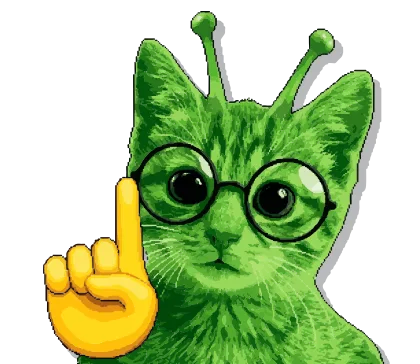
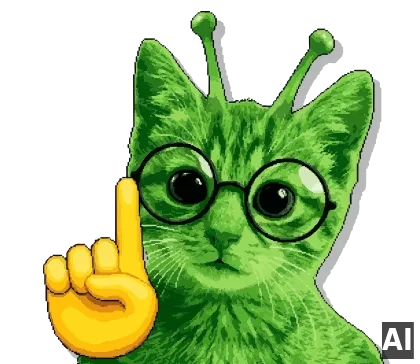
chore: Mark and disclose SI-generated art
- Burn a visible AI watermark into Nib's portrait and all 12 artifact
  sprites, and add an always-visible AI badge on the small portrait.
- Disclose SI use (images, code, narration) in the README and About panel.
- Record the exact Scott Buckley CC BY 4.0 submission attribution and
  update the PLAN risks and decision log.

Changed region(s): [[0.8976, 0.8764, 0.9905, 0.9973]]

diff --git a/src/about/AboutPanel.jsx b/src/about/AboutPanel.jsx
@@ -57,7 +57,9 @@ export default function AboutPanel({
         <li>Moon basemap: NASA Scientific Visualization Studio, CGI Moon Kit (LROC colour).</li>
         <li>Mars basemap: USGS Astrogeology, MOLA colour hillshade.</li>
         <li>Both basemaps are public domain.</li>
-        <li>Art credits will be added alongside those assets.</li>
+        <li>Art: Nib’s portrait and the artifact sprites are SI-generated; the Last Transmission logo and favicon were made for this project.</li>
+        <li>SI disclosure: displayed SI images carry a visible “AI” mark; code, tests, and documentation were developed with Claude Code.</li>
+        <li>Narration and fact-check copy was drafted with SI assistance and checked against the linked NASA sources.</li>
         <li>
           All background music tracks are composed by{' '}
           <strong>Scott Buckley</strong> (

diff --git a/src/styles.css b/src/styles.css
@@ -439,6 +439,7 @@ button:focus-visible {
 }
 
 .narrator-portrait-button {
+    position: relative;
     flex: none;
     display: grid;
     place-items: center;
@@ -449,6 +450,23 @@ button:focus-visible {
     transition:
         border-color 120ms ease-out,
         transform 120ms ease-out;
+}
+
+/* Visible SI mark: the source art is AI-generated and must stay marked. */
+.si-mark {
+    position: absolute;
+    right: 2px;
+    bottom: 2px;
+    padding: 1px 3px;
+    border-radius: 2px;
+    background: rgb(0 0 0 / 0.78);
+    color: #fff;
+    font-family: system-ui, sans-serif;
+    font-size: 0.5rem;
+    font-weight: 700;
+    line-height: 1.2;
+    letter-spacing: 0.04em;
+    pointer-events: none;
 }
 
 .narrator-portrait-button:hover {

diff --git a/src/story/StoryPanel.jsx b/src/story/StoryPanel.jsx
@@ -64,6 +64,9 @@ function Narrator({ artifact }) {
             src={asset('narrator/cat.webp')}
             alt=""
           />
+          <span className="si-mark" aria-hidden="true">
+            AI
+          </span>
         </button>
         <div>
           <p className="narrator-name">Nib</p>

diff --git a/README.md b/README.md
@@ -24,6 +24,17 @@ Twelve artifacts left behind by NASA missions, presented as one guided tour in t
 
 Designed for ages 9–13 and casual space fans.
 
+## Super Intelligence (SI) use
+
+SI tools were used to build this project, and the visible indicators are in the app.
+
+- **Images:** Nib’s portrait and the twelve artifact sprites are SI-generated. Every displayed SI image carries a visible “AI” watermark, and Nib’s portrait has an additional in-app AI badge. Nib’s source SVG retains its C2PA provenance (Google Generative AI). The SI-generated images contain no NASA logos, flags, or mission insignia.
+- **Code and tests:** developed with [Claude Code](https://claude.com/claude-code) (Anthropic) and reviewed by the team. Recent commits carry a `Co-Authored-By: Claude Code` trailer.
+- **Narration and fact-check copy:** drafted with SI assistance and checked against the NASA sources linked in each story.
+- **Audio:** no SI-generated audio. Music is by Scott Buckley; sound effects are by Hove Audio.
+
+The same disclosure appears in the in-app About panel and the submission form.
+
 ## How it maps to the challenge
 
 | Challenge asks                                                         | Where it shows up                                                                                                                                                                                                          |
@@ -108,12 +119,14 @@ Not covered:
 - Moon basemap: NASA Scientific Visualization Studio, CGI Moon Kit (LROC colour).
 - Mars basemap: USGS Astrogeology, MOLA colour hillshade.
 - Both basemaps are public domain.
-- Art credits will be added alongside those assets.
+- Art: Nib’s portrait and the artifact sprites are SI-generated (see [SI use](#super-intelligence-si-use)); the Last Transmission logo and favicon were made for this project.
 - All background music tracks are composed by **Scott Buckley** ([www.scottbuckley.com.au](https://www.scottbuckley.com.au)) and licensed under [Creative Commons Attribution 4.0 International (CC BY 4.0)](https://creativecommons.org/licenses/by/4.0/):
 - All sound effects are from **Hove Audio** ([https://hoveaudio.itch.io/](https://hoveaudio.itch.io/)).
 
 * **"At The End Of All Things"** – Intro & Outro theme
 * **"Clear Skies"** – Story introduction theme
 * **"With These Hands"** – Act III transition theme
+
+Submission attribution: “At The End Of All Things”, “Clear Skies”, and “With These Hands” by Scott Buckley — released under CC-BY 4.0. www.scottbuckley.com.au
 
 Design decisions, roster, and open questions live in [PLAN.md](PLAN.md).

diff --git a/PLAN.md b/PLAN.md
@@ -208,10 +208,11 @@ Never cut: content accuracy, the deployed URL, the 30-second video.
 
 ## 12. Risks and open questions
 
-- **AI-generated assets** — confirm the event's rules on generative content before
-  relying on any AI-made sprite.
-- **Scott Buckley audio licence** — confirm the exact licence and required credit
-  string; a missing CC-BY credit is a judging risk.
+- **AI-generated assets** — confirmed: SI use is permitted, but generated images need
+  a visible watermark and code/data need disclosure. Nib's portrait and the artifact
+  sprites carry an “AI” mark; README and About disclose the tools.
+- **Scott Buckley audio licence** — confirmed CC BY 4.0. Credit appears in README, the
+  About panel, and the submission description with the required attribution string.
 - **Content is the bottleneck.** Twelve researched entries in 48 hours cannot be
   compressed at the end.
 - **Late audio** — never build the demo video around audio that has not landed.
@@ -230,3 +231,4 @@ Never cut: content accuracy, the deployed URL, the 30-second video.
 | 2026-11-15 | Added a Playwright smoke suite to CI (system Chrome, no browser download). It automates the §9 five-step list and checks that favicon, logo, and artifact icons are served. Narrows the “no test suite” non-goal. |
 | 2026-11-15 | Added Nib, a Martian cat narrator, to every tour stop: a first-person story plus a “Was that all true?” fact-check drawn from `Narrator corrections.md`, with new stories for Viking 1, Ingenuity, NEAR Shoemaker and Dawn, and an Apollo 17 rewrite of the ALSEP entry. The cat portrait ships as a 420 px WebP; the original SVG stays in `assets-src/`. |
 | 2026-11-15 | Nib's story became a click-to-open popup: hidden until Nib or “Tell me a story” is clicked, told one beat at a time, with the fact-check inside the popup after the last beat. On desktop it floats above the portrait (the panel leaves only ~75 px below her); on phones it flows inside the bottom sheet. The old “Was that all true?” `<details>` was removed. |
+| 2026-11-15 | SI compliance: Nib's portrait is SI-generated (confirmed from its C2PA manifest) and the artifact sprites are SI-generated; code, tests, and documentation were developed with Claude Code. Added visible “AI” watermarks to the 13 displayed images plus an in-app badge on Nib, and disclosed where/how SI was used in README, About, and the submission. Confirmed Scott Buckley's CC BY 4.0 attribution. |
